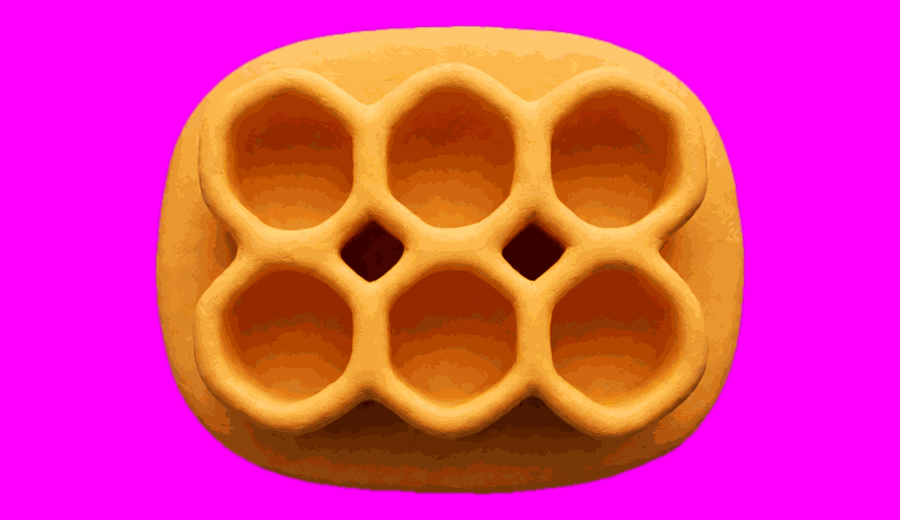
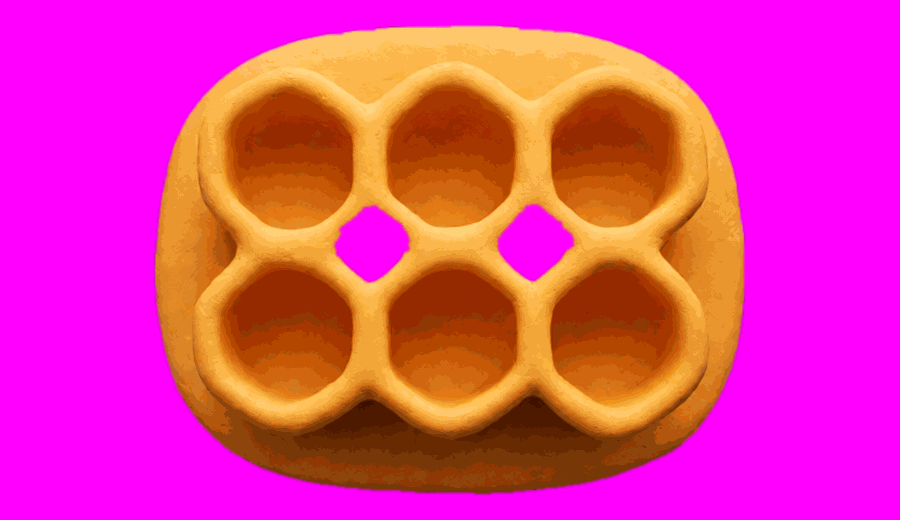
Fix un-keyed honeycomb pockets shipped to production
Two inter-cell notches on the honeycomb sprite rendered in a shadow
tone the border flood-fill's color tolerance couldn't reach, and the
existing close_holes pass didn't catch either -- they shipped as
opaque black diamonds floating in the bees-mode sky. Root cause: this
asset (like most UI/prop art) never attempted qwen-image-layered
extraction, unlike ladybug/bee's evidence-backed fallback.

Add close_dark_pockets(), a bounded neighbor-chained color flood that
closes small fully-enclosed background pockets without risking the
ladybug/bee's legitimate dark interior detail. Verified by direct
alpha sampling and a fresh in-game screenshot.

diff --git a/games/tweezer-rescue/tools/produce-art.py b/games/tweezer-rescue/tools/produce-art.py
@@ -496,7 +496,34 @@ FINAL_SPECS = [
          dst=SPRITES / "flower-purple.png", w=420, h=420, budget_kb=90),
     dict(id="leaf", kind="canvas", src=CUT / "leaf.png",
          dst=SPRITES / "leaf.png", w=460, h=340, budget_kb=90),
+    # NOTE: production defect (found 2026-08-23, confirmed live in a
+    # bees-mode screenshot) — two fully opaque dark diamond patches shipped
+    # between the hex cells (e.g. raw px ~(500,335)/(635,318) sampled
+    # (60,3,0,255)/(51,1,0,255)). Root cause: the model rendered those two
+    # inter-cell notches as a dark reddish-brown crevice-shadow color, not
+    # the flat charcoal ground — Euclidean distance from the sampled corner
+    # background (~27,28,28) is ~83-120, over key_charcoal's tol of 42, so
+    # the border flood-fill never reaches them (they never touch the image
+    # edge) AND a `close_holes` pass (single fixed-tolerance color match
+    # against that same corner sample) was verified NOT to close them either
+    # (tested directly: pixels stayed opaque at ~(139,57,1) after
+    # close_holes=True) — close_holes alone is the wrong tool here, unlike
+    # title/hooray where the enclosed gap really is the same flat charcoal.
+    # Real qwen-image-layered extraction is not viable for this geometric
+    # subject either: the whole reason honeycomb is a `key` (not `src=CUT/`)
+    # asset is that a generative redraw could move/reshape the exact cell
+    # geometry gameplay code relies on, same rationale as the tweezer split.
+    # Fixed with close_dark_pockets_ (see its docstring): a local
+    # chained-neighbor color flood seeded at the pocket's near-black pixels,
+    # capped by a small bbox and drift distance from the seed, so it cleanly
+    # captures just the two ~60x60px diamonds (verified: closed regions of
+    # 2374px and 2448px, bbox ~618-679x291-353 and ~480-540x292-354 — exactly
+    # matching the two visible notches) without touching the six much larger
+    # legitimate hex-cell shadow interiors (candidate seeds there were
+    # correctly rejected for exceeding max_bbox=140). Re-verified via a fresh
+    # magenta composite and direct alpha sampling at both gap coordinates.
     dict(id="honeycomb", kind="canvas", key=RAW / "sp-honeycomb.png",
+         close_dark_pockets=True,
          dst=SPRITES / "honeycomb.png", w=900, h=520, budget_kb=150),
     dict(id="pool-big", kind="canvas", key=RAW / "sp-pool.png",
          dst=SPRITES / "pool-big.png", w=560, h=420, budget_kb=110),
@@ -813,7 +840,95 @@ def erase_color_blobs(im, rules, min_area=150, dilate=2):
     return im
 
 
-def key_charcoal(src, close_holes: bool = False, patch=None, erase=None):
+def close_dark_pockets(px, w, h, mask, max_bbox=140, step_tol=36, seed_max=65,
+                        seed_dist2=200 ** 2):
+    """Close small interior background pockets that neither the border
+    flood-fill nor `close_holes` (a single global color match against the
+    sampled corner background) can catch, because the pocket was rendered in
+    a shadow tone that diverges from the flat corner background by more than
+    either tolerance -- e.g. honeycomb.png's defect: two diamond notches
+    between adjoining hex cells, fully enclosed by opaque clay, rendered as
+    a dark reddish-brown crevice shadow (~(60,3,0)) rather than the flat
+    charcoal ground (~(27,28,28)); Euclidean distance ~83-120, versus
+    key_charcoal's tol of 42.
+
+    Unlike `close_holes` (single fixed reference color) or `erase_color_blobs`
+    (fixed global predicate), this grows each candidate region by chained
+    neighbor-to-neighbor color flood fill (a "magic wand"): a step is allowed
+    when it is both close to its immediate neighbor (step_tol, lets the
+    pocket's own black-to-blended-edge gradient chain together) AND still
+    within seed_dist2 of the original seed pixel (hard drift cap, prevents
+    the chain from walking pixel-by-pixel all the way into unrelated
+    material via a slow gradient). A region is only closed (written into
+    `mask` in place) if it stays within a max_bbox square footprint and never
+    touches the image border -- i.e. it is provably a small, fully-enclosed
+    pocket, not a legitimate large dark object region (a cell's own shadowed
+    interior is much wider than max_bbox and gets safely rejected).
+
+    Only apply to a "key" asset that is verified, by direct pixel sampling,
+    to have no legitimate near-black enclosed region at this scale (see the
+    honeycomb FINAL_SPECS note). Do not enable for organic key'd sprites
+    (ladybug, bee) whose genuinely dark enclosed detail must stay opaque.
+    """
+    from collections import deque  # noqa: PLC0415
+    visited = bytearray(w * h)
+    step_tol2 = step_tol ** 2
+    closed_regions = []
+    for y0 in range(h):
+        for x0 in range(w):
+            i0 = y0 * w + x0
+            if mask[i0] or visited[i0]:
+                continue
+            sr, sg, sb = px[x0, y0]
+            if max(sr, sg, sb) > seed_max:
+                continue
+            comp = []
+            aborted = False
+            touches_border = False
+            minx = maxx = x0
+            miny = maxy = y0
+            dq = deque([(x0, y0)])
+            visited[i0] = 1
+            while dq:
+                cx, cy = dq.popleft()
+                comp.append((cx, cy))
+                if cx < minx: minx = cx
+                if cx > maxx: maxx = cx
+                if cy < miny: miny = cy
+                if cy > maxy: maxy = cy
+                if maxx - minx > max_bbox or maxy - miny > max_bbox:
+                    aborted = True
+                if cx in (0, w - 1) or cy in (0, h - 1):
+                    touches_border = True
+                cr, cg, cb = px[cx, cy]
+                for dx, dy in ((-1, 0), (1, 0), (0, -1), (0, 1)):
+                    nx, ny = cx + dx, cy + dy
+                    if 0 <= nx < w and 0 <= ny < h:
+                        ni = ny * w + nx
+                        if mask[ni] or visited[ni]:
+                            continue
+                        nr, ng, nb = px[nx, ny]
+                        if (nr - cr) ** 2 + (ng - cg) ** 2 + (nb - cb) ** 2 <= step_tol2 and \
+                           (nr - sr) ** 2 + (ng - sg) ** 2 + (nb - sb) ** 2 <= seed_dist2:
+                            visited[ni] = 1
+                            dq.append((nx, ny))
+                if aborted:
+                    break
+            if not aborted and not touches_border:
+                for cx, cy in comp:
+                    mask[cy * w + cx] = 1
+                closed_regions.append(dict(seed=(x0, y0), area=len(comp),
+                                            bbox=(minx, miny, maxx, maxy)))
+    if closed_regions:
+        big = [r for r in closed_regions if r["area"] > 50]
+        print(f"[pockets] closed {len(closed_regions)} region(s), "
+              f"{sum(r['area'] for r in closed_regions)}px total; "
+              f"largest: {sorted(big, key=lambda r: -r['area'])[:4]}")
+    return closed_regions
+
+
+def key_charcoal(src, close_holes: bool = False, patch=None, erase=None,
+                  close_dark_pockets_: bool = False):
     """Border flood-fill key of a flat dark-charcoal candidate -> RGBA.
 
     src may be a Path (opened and converted to RGB) or an already-loaded RGB
@@ -832,6 +947,12 @@ def key_charcoal(src, close_holes: bool = False, patch=None, erase=None):
 
     erase, if given, is a (rules, min_area) pair passed to erase_color_blobs
     to deterministically drop decorative ornaments before keying.
+
+    close_dark_pockets_=True additionally runs close_dark_pockets() (see its
+    docstring) — for a "key" asset with a small enclosed shadow-crevice
+    pocket rendered too far in color from the sampled corner background for
+    either the border flood or close_holes to catch (verified case:
+    honeycomb.png's two inter-cell diamond notches).
     """
     Image, ImageFilter = _pil()
     im = Image.open(src).convert("RGB") if isinstance(src, Path) else src.convert("RGB")
@@ -872,6 +993,8 @@ def key_charcoal(src, close_holes: bool = False, patch=None, erase=None):
         if x < w - 1: dq.append((x + 1, y))
         if y > 0: dq.append((x, y - 1))
         if y < h - 1: dq.append((x, y + 1))
+    if close_dark_pockets_:
+        close_dark_pockets(px, w, h, mask)
     if close_holes:
         for i in range(w * h):
             if mask[i]:
@@ -1024,7 +1147,8 @@ def finalize_one(spec, force: bool) -> str:
         return f"ok jpg q{q} {len(buf.getvalue())//1024}KB"
     # alpha paths
     im = key_charcoal(Path(src), close_holes=spec.get("close_holes", False),
-                       patch=spec.get("patch"), erase=spec.get("erase")) \
+                       patch=spec.get("patch"), erase=spec.get("erase"),
+                       close_dark_pockets_=spec.get("close_dark_pockets", False)) \
         if "key" in spec else Image.open(src).convert("RGBA")
     if spec.get("clean_components"):
         im = keep_largest_component(im)

diff --git a/games/tweezer-rescue/ASSETS.md b/games/tweezer-rescue/ASSETS.md
@@ -103,6 +103,28 @@ the summary.
    All three fixes are deterministic, live in `tools/produce-art.py`, and re-verified via fresh
    magenta QA composites (`assets/source/qa/{title,banner-hooray,card-fish}.magenta.png`).
 
+7. **`honeycomb.png` un-keyed inter-cell pockets — shipped-and-caught-in-production.** Two of the
+   six hex cells' shared diamond notches rendered as a dark reddish-brown crevice-shadow color
+   (~(60,3,0)) rather than the flat charcoal ground the rest of the background used — far enough
+   from the sampled corner background (Euclidean distance ~83–120 vs. `key_charcoal`'s tol of 42)
+   that the border flood-fill never reached them (they're fully enclosed, never touching the image
+   edge). The existing `close_holes` pass (a single fixed-tolerance color match) was tested and
+   confirmed *not* to close them either — wrong tool for a pocket whose color diverges this far
+   from the reference. Visibly shipped as two floating black diamonds in the live bees-mode scene
+   (`qa-shots/tweezer-rescue/prod2/01-bees-play.png`) until caught. Root cause of the whole defect
+   class: `qwen-image-layered` (the platform's specified ML segmentation) was never attempted for
+   honeycomb (or most other UI/prop assets) — it went straight to the deterministic `key` path,
+   unlike `ladybug`/`bee` above, which only fall back to `key` after real, evidence-backed
+   `qwen-image-layered` failures (defect #4). Regenerating this asset via `qwen-image-layered` is
+   still not the right fix even now: honeycomb's exact cell geometry (used directly by gameplay
+   anchors) must stay deterministic, same rationale as the tweezer split. Fixed with
+   `close_dark_pockets()` — a bounded neighbor-chained color-flood ("magic wand") seeded at
+   near-black pixels, capped by a small bounding-box footprint and hard drift distance from the
+   seed, so it closes only small fully-enclosed pockets (verified: two regions, 2374px/2448px,
+   bbox ~618–679×291–353 and ~480–540×292–354, exactly matching the two notches) without touching
+   the six much larger legitimate hex-cell shadow interiors. Re-verified by direct alpha sampling
+   at both former gap coordinates (now `(0,0,0,0)`) and a fresh magenta composite.
+
 All fixes are in `tools/produce-art.py` (not hand-patched image files), so a future `--force`
 rerun reproduces the same accepted result.
 
@@ -130,7 +152,7 @@ rerun reproduces the same accepted result.
 | Flower — white | `assets/sprites/flower-white.png` | 42 · lift → layered | 29 KB | |
 | Flower — purple | `assets/sprites/flower-purple.png` | 1337 (reroll — seed 42 was a near-blank wash) · lift → layered | 25 KB | |
 | Leaf perch | `assets/sprites/leaf.png` | 42 · lift → layered | 27 KB | |
-| Honeycomb board | `assets/sprites/honeycomb.png` | 42 · krea2-turbo-t2i, key | 48 KB | 6 open cells, 2 rows of 3 |
+| Honeycomb board | `assets/sprites/honeycomb.png` | 42 · krea2-turbo-t2i, key + `close_dark_pockets` | 48 KB | 6 open cells, 2 rows of 3; see defect #7 |
 | Pool — big | `assets/sprites/pool-big.png` | 42 · krea2-turbo-t2i, key | 27 KB | Shares one `sp-pool.png` source, 3 sizes |
 | Pool — medium | `assets/sprites/pool-medium.png` | 42 · krea2-turbo-t2i, key | 19 KB | |
 | Pool — little | `assets/sprites/pool-little.png` | 42 · krea2-turbo-t2i, key | 13 KB | |
